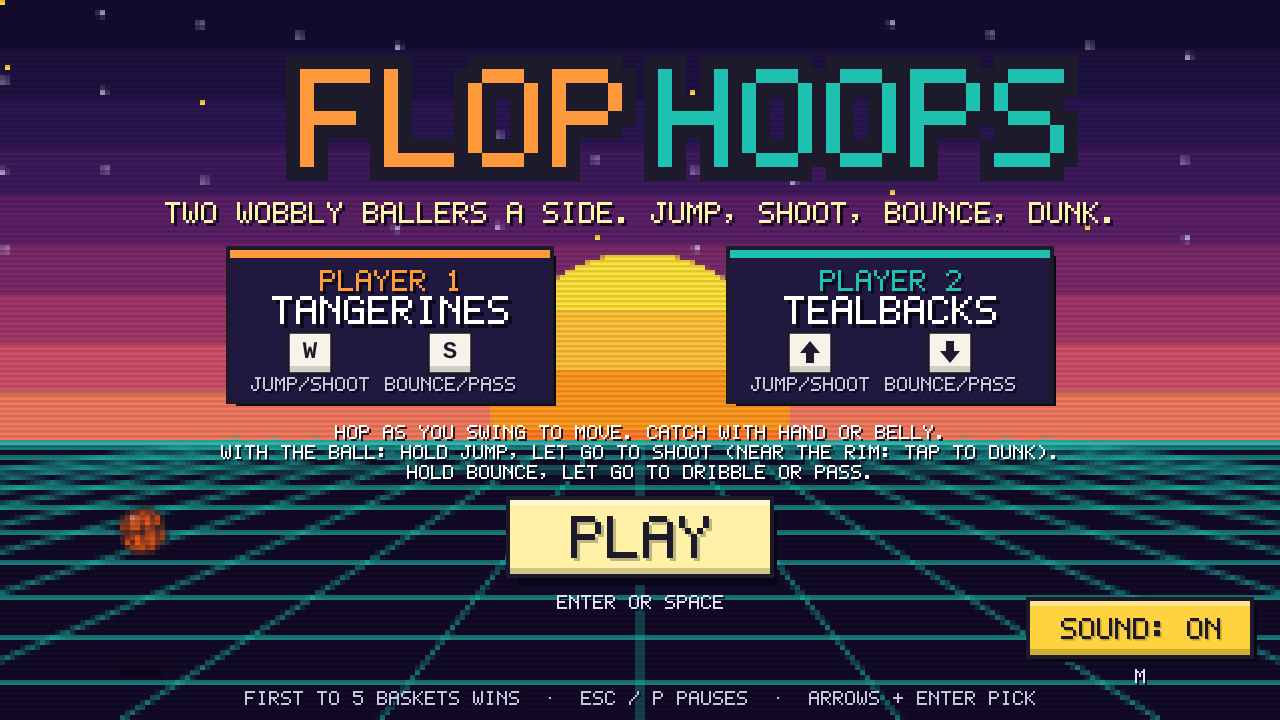
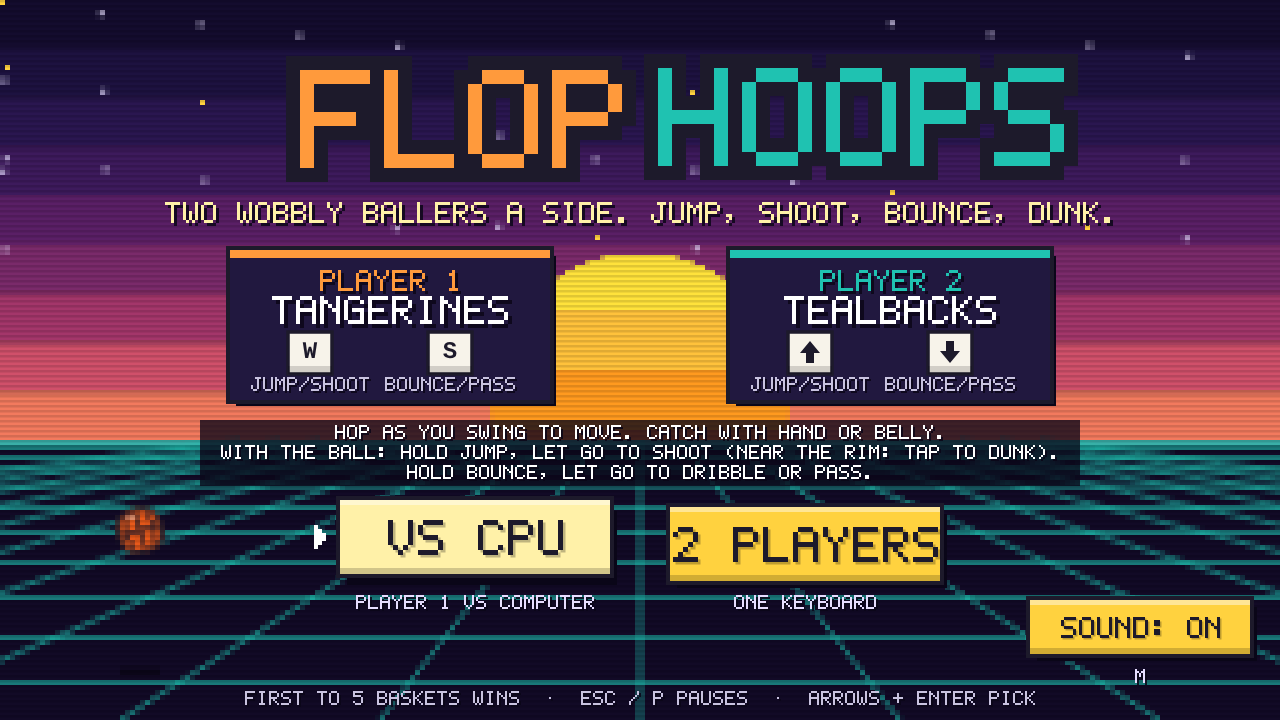
iteration 13: added VS CPU opponent and 2 PLAYERS mode; fixed erratic launches
Brief: design/game-brief.md

Also: the planted swing engages only near upright and turns no faster than
itself, tilted hops are steered no harder than a full swing, parts capped
at 22 px/step outside dunks, hops carry by the lean.

Claude-Session: https://claude.ai/code/session_01JSgNr6WUAfnQ9VaCvmLX1X

diff --git a/prototypes/flop-hoops/index.html b/prototypes/flop-hoops/index.html
@@ -20,6 +20,7 @@
 <script src="js/rounds.js"></script>
 <script src="js/scoring.js"></script>
 <script src="js/physics.js"></script>
+<script src="js/ai.js"></script>
 <script src="js/pixelfont.js"></script>
 <script src="js/render.js"></script>
 <script>
@@ -217,7 +218,14 @@ function buildRound(round) {
   buildPalette(S);
   state.stall = 0;
 }
-function newMatch() { reset(); nextRound(); events.push({ type: 'match' }); }
+// mode: 'cpu' (Player 1 against the computer, which plays the Tealbacks) or '2p' (two people)
+let mode = 'cpu', cpu = null;
+function newMatch(m) {
+  if (m === 'cpu' || m === '2p') mode = m;
+  reset(); state.mode = mode;
+  cpu = mode === 'cpu' ? AI.create(1, rng) : null;
+  nextRound(); events.push({ type: 'match', mode });
+}
 function nextRound() { buildRound(state.round + 1); state.cardT = 0; scene = 'card'; sfx.whistle(); }
 function pauseGame() { pauseFrom = scene; scene = 'pause'; }
 function toMenu() { reset(); buildRound(1); scene = 'title'; }
@@ -239,6 +247,12 @@ function physStep(held, bheld = [false, false]) {
 }
 let physStepSaw = [false, false], physStepSawB = [false, false];
 function bounceKeys() { return BOUNCE_KEYS.map(k => down.has(k)); }
+/** Both teams' keys this step: [jump keys, bounce keys]. Against the CPU, it presses the Tealbacks' keys. */
+function teamKeys() {
+  const j = heldKeys(), b = bounceKeys();
+  if (cpu) { AI.update(cpu, world, tune, STEP * tune.game_speed); j[1] = cpu.jump; b[1] = cpu.bounce; }
+  return [j, b];
+}
 function courtAlpha() { return Math.min(1, physAcc + ALPHA * tune.game_speed); }
 function heldKeys() { return KEYS.map(k => down.has(k)); }
 const DUST = () => (world && Render.VENUES[world.S.venue].line) || '#ffffff';
@@ -370,7 +384,7 @@ function drawGame(opts = {}) {
     c.globalAlpha = 1;
   });
   if (opts.hud !== false) {
-    Render.scoreboard(ctx, W, { score: state.score, pops: state.pops, round: state.round, target: tune.win_score, leader: Scoring.leader(state.score) });
+    Render.scoreboard(ctx, W, { cpu: !!cpu, score: state.score, pops: state.pops, round: state.round, target: tune.win_score, leader: Scoring.leader(state.score) });
     if ((scene === 'play' || scene === 'scored') && world.hustle.some(Boolean)) {
       const t = world.hustle[0] ? 0 : 1;
       text(`${Render.TEAM_NAMES[t].toUpperCase()} HUSTLE: HIGHER JUMPS`, W / 2, 128, 16, Render.TEAM_COLORS[t], { stroke: 4 });
@@ -460,7 +474,8 @@ const scenes = {
       ptext('WITH THE BALL: HOLD JUMP, LET GO TO SHOOT (NEAR THE RIM: TAP TO DUNK).', W / 2, 452, 2, '#ffffff');
       ptext('HOLD BOUNCE, LET GO TO DRIBBLE OR PASS.', W / 2, 472, 2, '#ffffff');
       buttons = [];
-      btn('PLAY', W / 2 - 130, 506, 260, 74, newMatch, 'ENTER OR SPACE', 6);
+      btn('VS CPU', W / 2 - 300, 506, 270, 74, () => newMatch('cpu'), 'PLAYER 1 VS COMPUTER', 4);
+      btn('2 PLAYERS', W / 2 + 30, 506, 270, 74, () => newMatch('2p'), 'ONE KEYBOARD', 4);
       btn(muted ? 'SOUND: OFF' : 'SOUND: ON', W - 250, H - 120, 220, 54, () => setMuted(!muted), 'M', 3);
       ptext(`FIRST TO ${tune.win_score} BASKETS WINS  ·  ESC / P PAUSES  ·  ARROWS + ENTER PICK`, W / 2, H - 22, 2, '#c9c3e0');
     },
@@ -477,7 +492,7 @@ const scenes = {
     update(dt) {
       if (pressed('KeyP') || pressed('Escape')) { pauseGame(); return; }
       state.t += dt; updateJuice(dt);
-      const { prev, cur } = physStep(heldKeys(), bounceKeys());
+      const { prev, cur } = physStep(...teamKeys());
       const hoop = Scoring.basket(prev, cur, world.hoops);
       if (hoop) { score(hoop); return; }
       checkStall(dt);
@@ -487,7 +502,7 @@ const scenes = {
   scored: { // the basket: shake, confetti, score pop, a short slow-motion, then the next round
     update(dt) {
       state.scoredT += dt; state.t += dt; updateJuice(dt);
-      if (state.scoredT < 0.6 ? Math.round(state.scoredT * 60) % 2 === 0 : true) physStep(heldKeys(), bounceKeys());
+      if (state.scoredT < 0.6 ? Math.round(state.scoredT * 60) % 2 === 0 : true) physStep(...teamKeys());
       if (state.scoredT >= tune.score_time) {
         if (state.winner >= 0) { scene = 'results'; state.resultsT = 0; state.gained = `${Render.TEAM_NAMES[state.winner]} win`; sfx.win(); events.push({ type: 'win', team: state.winner }); }
         else nextRound();

diff --git a/prototypes/flop-hoops/js/ai.js b/prototypes/flop-hoops/js/ai.js
@@ -1,0 +1,84 @@
+// PROTOTYPE - NOT FOR PRODUCTION
+// Question: Does one key plus floppy physics give a match that is chaotic, funny and still winnable on skill?
+// Date: 2026-11-14
+'use strict';
+/**
+ * AI: a CPU opponent that plays one team with exactly what a person has: one jump key and one
+ * bounce key, pressed and released over time. It reads the world each step and returns the two
+ * keys' states. It reacts after a short delay and misjudges its shots a little, by T.ai_skill.
+ */
+const AI = (() => {
+  const clamp = (v, lo, hi) => Math.max(lo, Math.min(hi, v));
+  const wrap = a => Math.atan2(Math.sin(a), Math.cos(a));
+
+  /**
+   * Make a controller for `team`.
+   * @param {number} team the team it plays (0 or 1)
+   * @param {() => number} rng seeded random, so a replay of the same match is the same
+   */
+  function create(team, rng) {
+    return { team, rng, jump: false, bounce: false, wait: 0, holdT: 0, plan: null };
+  }
+
+  /** The player of its team nearest the ball. */
+  function nearest(w, team) {
+    let best = null, bd = 1e9;
+    for (const p of w.players) if (p.team === team) {
+      const d = Math.abs(p.torso.position.x - w.ball.position.x);
+      if (d < bd) { bd = d; best = p; }
+    }
+    return best;
+  }
+
+  /**
+   * Decide this step's keys.
+   * @param {object} c controller from create
+   * @param {object} w the physics world
+   * @param {object} T live tuning values
+   * @param {number} dt step length in seconds
+   * @returns {{jump: boolean, bounce: boolean}}
+   */
+  function update(c, w, T, dt) {
+    const skill = clamp(T.ai_skill, 0, 1), ball = w.ball, hold = w.hold;
+    const react = T.ai_react * (1.6 - skill);   // seconds between fresh decisions
+    c.bounce = false;
+
+    // a key being held on purpose: keep it down until the plan says let go
+    if (c.holdT > 0) { c.holdT -= dt; c.jump = c.holdT > 0; if (c.holdT <= 0) c.wait = react * 0.5; return c; }
+    if (c.wait > 0) { c.wait -= dt; c.jump = false; return c; }
+
+    if (hold && hold.p.team === c.team) {             // ---- we have the ball
+      const p = hold.p, hoop = w.hoops.find(h => h.team === c.team);
+      if (hold.dunkReady) { c.jump = true; c.holdT = dt * 2; return c; }       // a tap: dunk
+      if (!hold.armed) { c.jump = false; return c; }                           // let go once after the catch
+      const X = Math.abs(hoop.cx - ball.position.x);
+      // far away and an opponent standing close: bounce a pass forward instead, sometimes
+      const foeNear = w.players.some(q => q.team !== c.team && Math.abs(q.torso.position.x - p.torso.position.x) < 90);
+      if (X > 520 && foeNear && c.rng() < 0.3) { c.bounce = true; c.wait = 0.25; return c; }
+      // cock back for a time that fits the distance, misjudged a little
+      const want = clamp((X - 140) / 620, 0.05, 1) + (c.rng() * 2 - 1) * T.ai_error * (1 - skill);
+      c.jump = true; c.holdT = clamp(want, 0.03, 1) * T.shot_charge_time;
+      return c;
+    }
+
+    if (hold && hold.p.team !== c.team) {             // ---- they have it: get up to block a shot
+      const foe = hold.p;
+      const close = w.players.some(q => q.team === c.team && Math.abs(q.torso.position.x - foe.torso.position.x) < 170);
+      if (hold.cocking && close && c.rng() < 0.4 + skill * 0.5) { c.jump = true; c.holdT = 0.3; return c; }
+    }
+
+    // ---- free ball, or closing down the carrier: hop toward it on the swing
+    const p = nearest(w, c.team);
+    if (!p) { c.jump = false; return c; }
+    const target = hold ? hold.p.torso.position.x : ball.position.x;
+    const s = Math.sign(target - p.torso.position.x) || 1, a = wrap(p.torso.angle);
+    const highBall = !hold && ball.position.y < w.floorY - 220 && Math.abs(ball.position.x - p.torso.position.x) < 140;
+    if (highBall) { c.jump = true; c.holdT = 0.32; return c; }                  // a full jump for a high ball
+    const leaningToward = a * s > 0.22 && p.sinceFoot < 0.1;                     // the swing is tipping toward it
+    if (leaningToward) { c.jump = true; c.holdT = 0.06 + c.rng() * 0.08; return c; }
+    c.jump = false; c.wait = react * 0.25;
+    return c;
+  }
+
+  return { create, update };
+})();

diff --git a/prototypes/flop-hoops/js/physics.js b/prototypes/flop-hoops/js/physics.js
@@ -237,16 +237,18 @@ const Physics = (() => {
     const phase = w.time * T.rock_rate * Math.PI * 2 + p.idx * 1.9 + p.team * 0.7;
     const dribbling = p.dribbleT > 0;
     if (dribbling) p.dribbleT -= dt;
-    const swinging = planted && p.sinceJump > 0.2 && Math.abs(a) < 1.1 && !dribbling;
+    // the swing only takes over once the body is fairly upright: a player who lands tilted is
+    // righted gently by the upright spring first, never snapped round in one step
+    const swinging = planted && p.sinceJump > 0.2 && Math.abs(a) < T.rock_engage && !dribbling;
     if (swinging) {
       const next = Math.sin(phase + T.rock_rate * Math.PI * 2 * dt) * T.rock_angle;   // where the swing should be next step
-      const om = lerp(torso.angularVelocity, wrap(next - a), T.rock_follow);             // rad/step
+      const om = clamp(lerp(torso.angularVelocity, wrap(next - a), T.rock_follow), -T.rock_max_turn, T.rock_max_turn); // rad/step, never faster than the swing itself
       const piv = p.legs.reduce((q, l) => {
         const c = Math.cos(l.angle), sn = Math.sin(l.angle), hl = p.dims.legL / 2;
         return { x: q.x + (l.position.x - sn * hl) / 2, y: q.y + (l.position.y + c * hl) / 2 };
       }, { x: 0, y: 0 });
       for (const part of [torso, p.head, ...p.legs]) {
-        Body.setVelocity(part, { x: -om * (part.position.y - piv.y), y: om * (part.position.x - piv.x) });
+        Body.setVelocity(part, { x: clamp(-om * (part.position.y - piv.y), -T.rock_max_speed, T.rock_max_speed), y: clamp(om * (part.position.x - piv.x), -T.rock_max_speed, T.rock_max_speed) });
         Body.setAngularVelocity(part, om);
       }
     } else {
@@ -293,13 +295,15 @@ const Physics = (() => {
     if (held && grounded && p.cd <= 0 && (!h || fresh)) {
       const v = vFull * T.jump_tap_frac * (1 + (w.rng() * 2 - 1) * T.jump_jitter);
       const m = T.jump_tilt_mix;
-      let jx = Math.sin(a) * m, jy = -(1 - m) - Math.cos(a) * m;
+      const ja = clamp(a, -T.rock_angle, T.rock_angle);   // a tumbling body steers no harder than a full swing
+      let jx = Math.sin(ja) * m, jy = -(1 - m) - Math.cos(ja) * m;
       if (jy > -0.35) jy = -0.35;            // even upside down, a jump goes up a little
       const n = Math.hypot(jx, jy); jx /= n; jy /= n;
       const c = carrier(w);
       const goalX = c && c.team === p.team ? attackedHoop(w, p).cx : w.ball.position.x;
       const chase = clamp((goalX - torso.position.x) / 200, -1, 1) * T.jump_chase;
-      const vx = jx * v + p.dir * T.jump_forward + chase, vy = jy * v;
+      // the swing steers the hop: lean one way and the hop carries you that way, up to hop_reach
+      const vx = jx * v + Math.sin(ja) / Math.sin(T.rock_angle) * T.hop_reach + p.dir * T.jump_forward + chase, vy = jy * v;
       for (const part of p.parts) {
         Body.setVelocity(part, { x: part.velocity.x * 0.25 + vx, y: Math.min(part.velocity.y, 0) * 0.25 + vy });
       }
@@ -618,7 +622,7 @@ const Physics = (() => {
       else w.trail = null;
     }
     capSpeed(ball, T.ball_max_speed);
-    for (const p of w.players) for (const part of p.parts) capSpeed(part, 30);
+    for (const p of w.players) if (!(w.dunk && w.dunk.p === p)) for (const part of p.parts) capSpeed(part, T.player_max_speed);
 
     for (const h of w.hoops) {   // the net drags a free ball passing through it: the swish
       if (!w.hold && ball.position.x > h.x1 && ball.position.x < h.x2 && ball.position.y > h.rimY && ball.position.y < h.rimY + 56) {

diff --git a/prototypes/flop-hoops/config.js b/prototypes/flop-hoops/config.js
@@ -10,6 +10,9 @@ window.CONFIG = {
 
   // ---- Match ----
   win_score: { value: 5, min: 1, max: 11, step: 1 },          // baskets to win
+  ai_skill: { value: 0.6, min: 0, max: 1, step: 0.05 },           // CPU: 0 sloppy and slow, 1 sharp and quick
+  ai_react: { value: 0.18, min: 0.02, max: 0.6, step: 0.01 },      // CPU: s between fresh decisions at middling skill
+  ai_error: { value: 0.35, min: 0, max: 1, step: 0.05 },          // CPU: how far its shot power can be off, at zero skill
   game_speed: { value: 0.9, min: 0.3, max: 1.2, step: 0.02 }, // physics steps per real step: below 1 is slower
   card_time: { value: 1.0, min: 0.5, max: 4, step: 0.1 },      // s the round card shows before play
   score_time: { value: 1.4, min: 0.8, max: 4, step: 0.1 },     // s of celebration after a basket
@@ -21,6 +24,7 @@ window.CONFIG = {
   jump_hold_time: { value: 0.28, min: 0.05, max: 0.6, step: 0.01 }, // s of holding that lifts a jump to full height
   jump_forward: { value: 1.0, min: 0, max: 8, step: 0.1 },     // px/step push toward the hoop you attack
   jump_chase: { value: 0.9, min: 0, max: 8, step: 0.1 },       // px/step pull toward the play on each hop
+  hop_reach: { value: 6, min: 0, max: 12, step: 0.5 },            // px/step sideways a hop gets when leaning a full swing that way
   jump_spin: { value: 0.075, min: 0, max: 0.3, step: 0.005 },  // rad/step forward tip on each jump
   jump_tilt_mix: { value: 0.6, min: 0, max: 1, step: 0.05 },   // 0 = straight up, 1 = along the body
   jump_jitter: { value: 0.08, min: 0, max: 0.3, step: 0.01 },  // +- fraction of random jump strength
@@ -87,6 +91,10 @@ window.CONFIG = {
   rock_angle: { value: 0.55, min: 0, max: 0.9, step: 0.01 },    // rad of the forward-and-back rock while planted
   rock_rate: { value: 0.75, min: 0.2, max: 3, step: 0.05 },      // rocks a second
   rock_follow: { value: 0.6, min: 0.05, max: 1, step: 0.05 },   // how tightly a planted body tracks its swing
+  rock_engage: { value: 0.75, min: 0.3, max: 1.5, step: 0.05 },  // rad of tilt under which the planted swing takes over
+  rock_max_turn: { value: 0.05, min: 0.01, max: 0.2, step: 0.005 }, // rad/step the swing may turn the body at most
+  rock_max_speed: { value: 8, min: 2, max: 20, step: 0.5 },       // px/step the swing may move any body part at most
+  player_max_speed: { value: 22, min: 10, max: 30, step: 1 },     // px/step cap on every body part (not during a dunk)
   getup_time: { value: 0.7, min: 0.1, max: 3, step: 0.05 },     // s lying down before springing back up
   getup_pop: { value: 7, min: 0, max: 15, step: 0.5 },          // px/step upward pop when getting up
   body_width: { value: 28, min: 12, max: 50, step: 1 },         // px torso width

diff --git a/prototypes/flop-hoops/js/render.js b/prototypes/flop-hoops/js/render.js
@@ -249,7 +249,8 @@ const Render = (() => {
       const s = team ? 1 : -1, bx = cx + s * 190;
       rr(ctx, bx - 100, y + 10, 200, h - 20, 14); ink(ctx, TEAM_COLORS[team], 4);
       text(ctx, TEAM_NAMES[team].toUpperCase(), bx - s * 28, y + 30, 17, '#ffffff', { stroke: 4 });
-      keycap(ctx, bx - s * 28 - 18, y + 62, team ? 'up' : 'W', 0.55); keycap(ctx, bx - s * 28 + 14, y + 62, team ? 'down' : 'S', 0.55);
+      if (team === 1 && st.cpu) text(ctx, 'CPU', bx - s * 28, y + 62, 18, '#ffffff', { stroke: 4 });   // the computer plays this side
+      else { keycap(ctx, bx - s * 28 - 18, y + 62, team ? 'up' : 'W', 0.55); keycap(ctx, bx - s * 28 + 14, y + 62, team ? 'down' : 'S', 0.55); }
       const pop = st.pops[team];
       ctx.save(); ctx.translate(bx + s * 52, y + h / 2); ctx.scale(1 + pop * 0.6, 1 + pop * 0.6);
       text(ctx, String(st.score[team]), 0, 2, 52, '#ffffff', { weight: 900, stroke: 7 });

diff --git a/design/game-brief.md b/design/game-brief.md
@@ -40,6 +40,8 @@ After play: make the court less wide, and the character heads one pixel wider, m
 
 After play: make the menu more retro with a retro font. add a background for the menu, dropshadow for the text. add animations to the buttons in the menu.
 
+After play: create an AI to play against. Debug the movement to remove erratic launching into the air and into the basket.
+
 **Pitch:** Two wobbly ragdoll ballers a side, one jump key each, swinging on their feet and hurling a squircle ball.
 
 **Genre:** arcade sports (floppy physics sport)
@@ -86,6 +88,8 @@ Every touch is contested from second one: the skill is timing your hop against t
 - [x] Only opponents collide; teammates pass through each other
 - [x] Planted players pivot on their feet, swinging evenly forward and back (±0.55 rad) at a beat that never fades, so a well-timed hop carries them far; fallen players get back up
 - [x] While a team has the ball, its key moves only the carrier: the teammate stays planted
+- [x] VS CPU mode: the computer plays the Tealbacks with the same two keys a person has (hops on the swing to the ball, shoots by distance with some error, taps to dunk, jumps to block, sometimes passes); 2 PLAYERS mode on one keyboard
+- [x] No erratic launches: the planted swing takes over only near upright and turns no faster than itself; a tumbling body's hop is steered no harder than a full swing; body parts capped at 22 px/step outside dunks; hops carry by the lean (hop_reach)
 - [x] Shots: one arc per cock-back and spot (forward 3.5-14, up 11-13, 1 s cock-back); lean, drift and momentum change nothing; strong aim help toward the rim's centre
 - [x] Bounce key: hold to wind up, let go to bounce the ball forward as a pass; a pass slips through opponents for 0.3 s and they cannot catch it for 0.6 s
 - [x] Dribble: tapping the bounce key bounces the ball at the feet while the player slides forward; each tap in a row adds sway and bounce error until the ball gets away (about 14 taps)
@@ -105,6 +109,7 @@ Every touch is contested from second one: the skill is timing your hop against t
 - ragdoll physics · in the slice
 - round venues and looks · in the slice
 - local 2-player · in the slice
+- CPU opponent · in the slice
 - menus and game states · in the slice
 - ball handling (grab, shoot, dunk, fadeaway, block) · in the slice
 
@@ -118,7 +123,6 @@ Every touch is contested from second one: the skill is timing your hop against t
 - Round modifiers (removed after play)
 
 ## Out of scope
-- An AI opponent: change it after play
 - Online play: needs a server, not built yet (two players on one keyboard instead)
 - Leagues and seasons: grow it
 

diff --git a/prototypes/flop-hoops/brief.md b/prototypes/flop-hoops/brief.md
@@ -40,6 +40,8 @@ After play: make the court less wide, and the character heads one pixel wider, m
 
 After play: make the menu more retro with a retro font. add a background for the menu, dropshadow for the text. add animations to the buttons in the menu.
 
+After play: create an AI to play against. Debug the movement to remove erratic launching into the air and into the basket.
+
 **Pitch:** Two wobbly ragdoll ballers a side, one jump key each, swinging on their feet and hurling a squircle ball.
 
 **Genre:** arcade sports (floppy physics sport)
@@ -86,6 +88,8 @@ Every touch is contested from second one: the skill is timing your hop against t
 - [x] Only opponents collide; teammates pass through each other
 - [x] Planted players pivot on their feet, swinging evenly forward and back (±0.55 rad) at a beat that never fades, so a well-timed hop carries them far; fallen players get back up
 - [x] While a team has the ball, its key moves only the carrier: the teammate stays planted
+- [x] VS CPU mode: the computer plays the Tealbacks with the same two keys a person has (hops on the swing to the ball, shoots by distance with some error, taps to dunk, jumps to block, sometimes passes); 2 PLAYERS mode on one keyboard
+- [x] No erratic launches: the planted swing takes over only near upright and turns no faster than itself; a tumbling body's hop is steered no harder than a full swing; body parts capped at 22 px/step outside dunks; hops carry by the lean (hop_reach)
 - [x] Shots: one arc per cock-back and spot (forward 3.5-14, up 11-13, 1 s cock-back); lean, drift and momentum change nothing; strong aim help toward the rim's centre
 - [x] Bounce key: hold to wind up, let go to bounce the ball forward as a pass; a pass slips through opponents for 0.3 s and they cannot catch it for 0.6 s
 - [x] Dribble: tapping the bounce key bounces the ball at the feet while the player slides forward; each tap in a row adds sway and bounce error until the ball gets away (about 14 taps)
@@ -105,6 +109,7 @@ Every touch is contested from second one: the skill is timing your hop against t
 - ragdoll physics · in the slice
 - round venues and looks · in the slice
 - local 2-player · in the slice
+- CPU opponent · in the slice
 - menus and game states · in the slice
 - ball handling (grab, shoot, dunk, fadeaway, block) · in the slice
 
@@ -118,7 +123,6 @@ Every touch is contested from second one: the skill is timing your hop against t
 - Round modifiers (removed after play)
 
 ## Out of scope
-- An AI opponent: change it after play
 - Online play: needs a server, not built yet (two players on one keyboard instead)
 - Leagues and seasons: grow it
 
